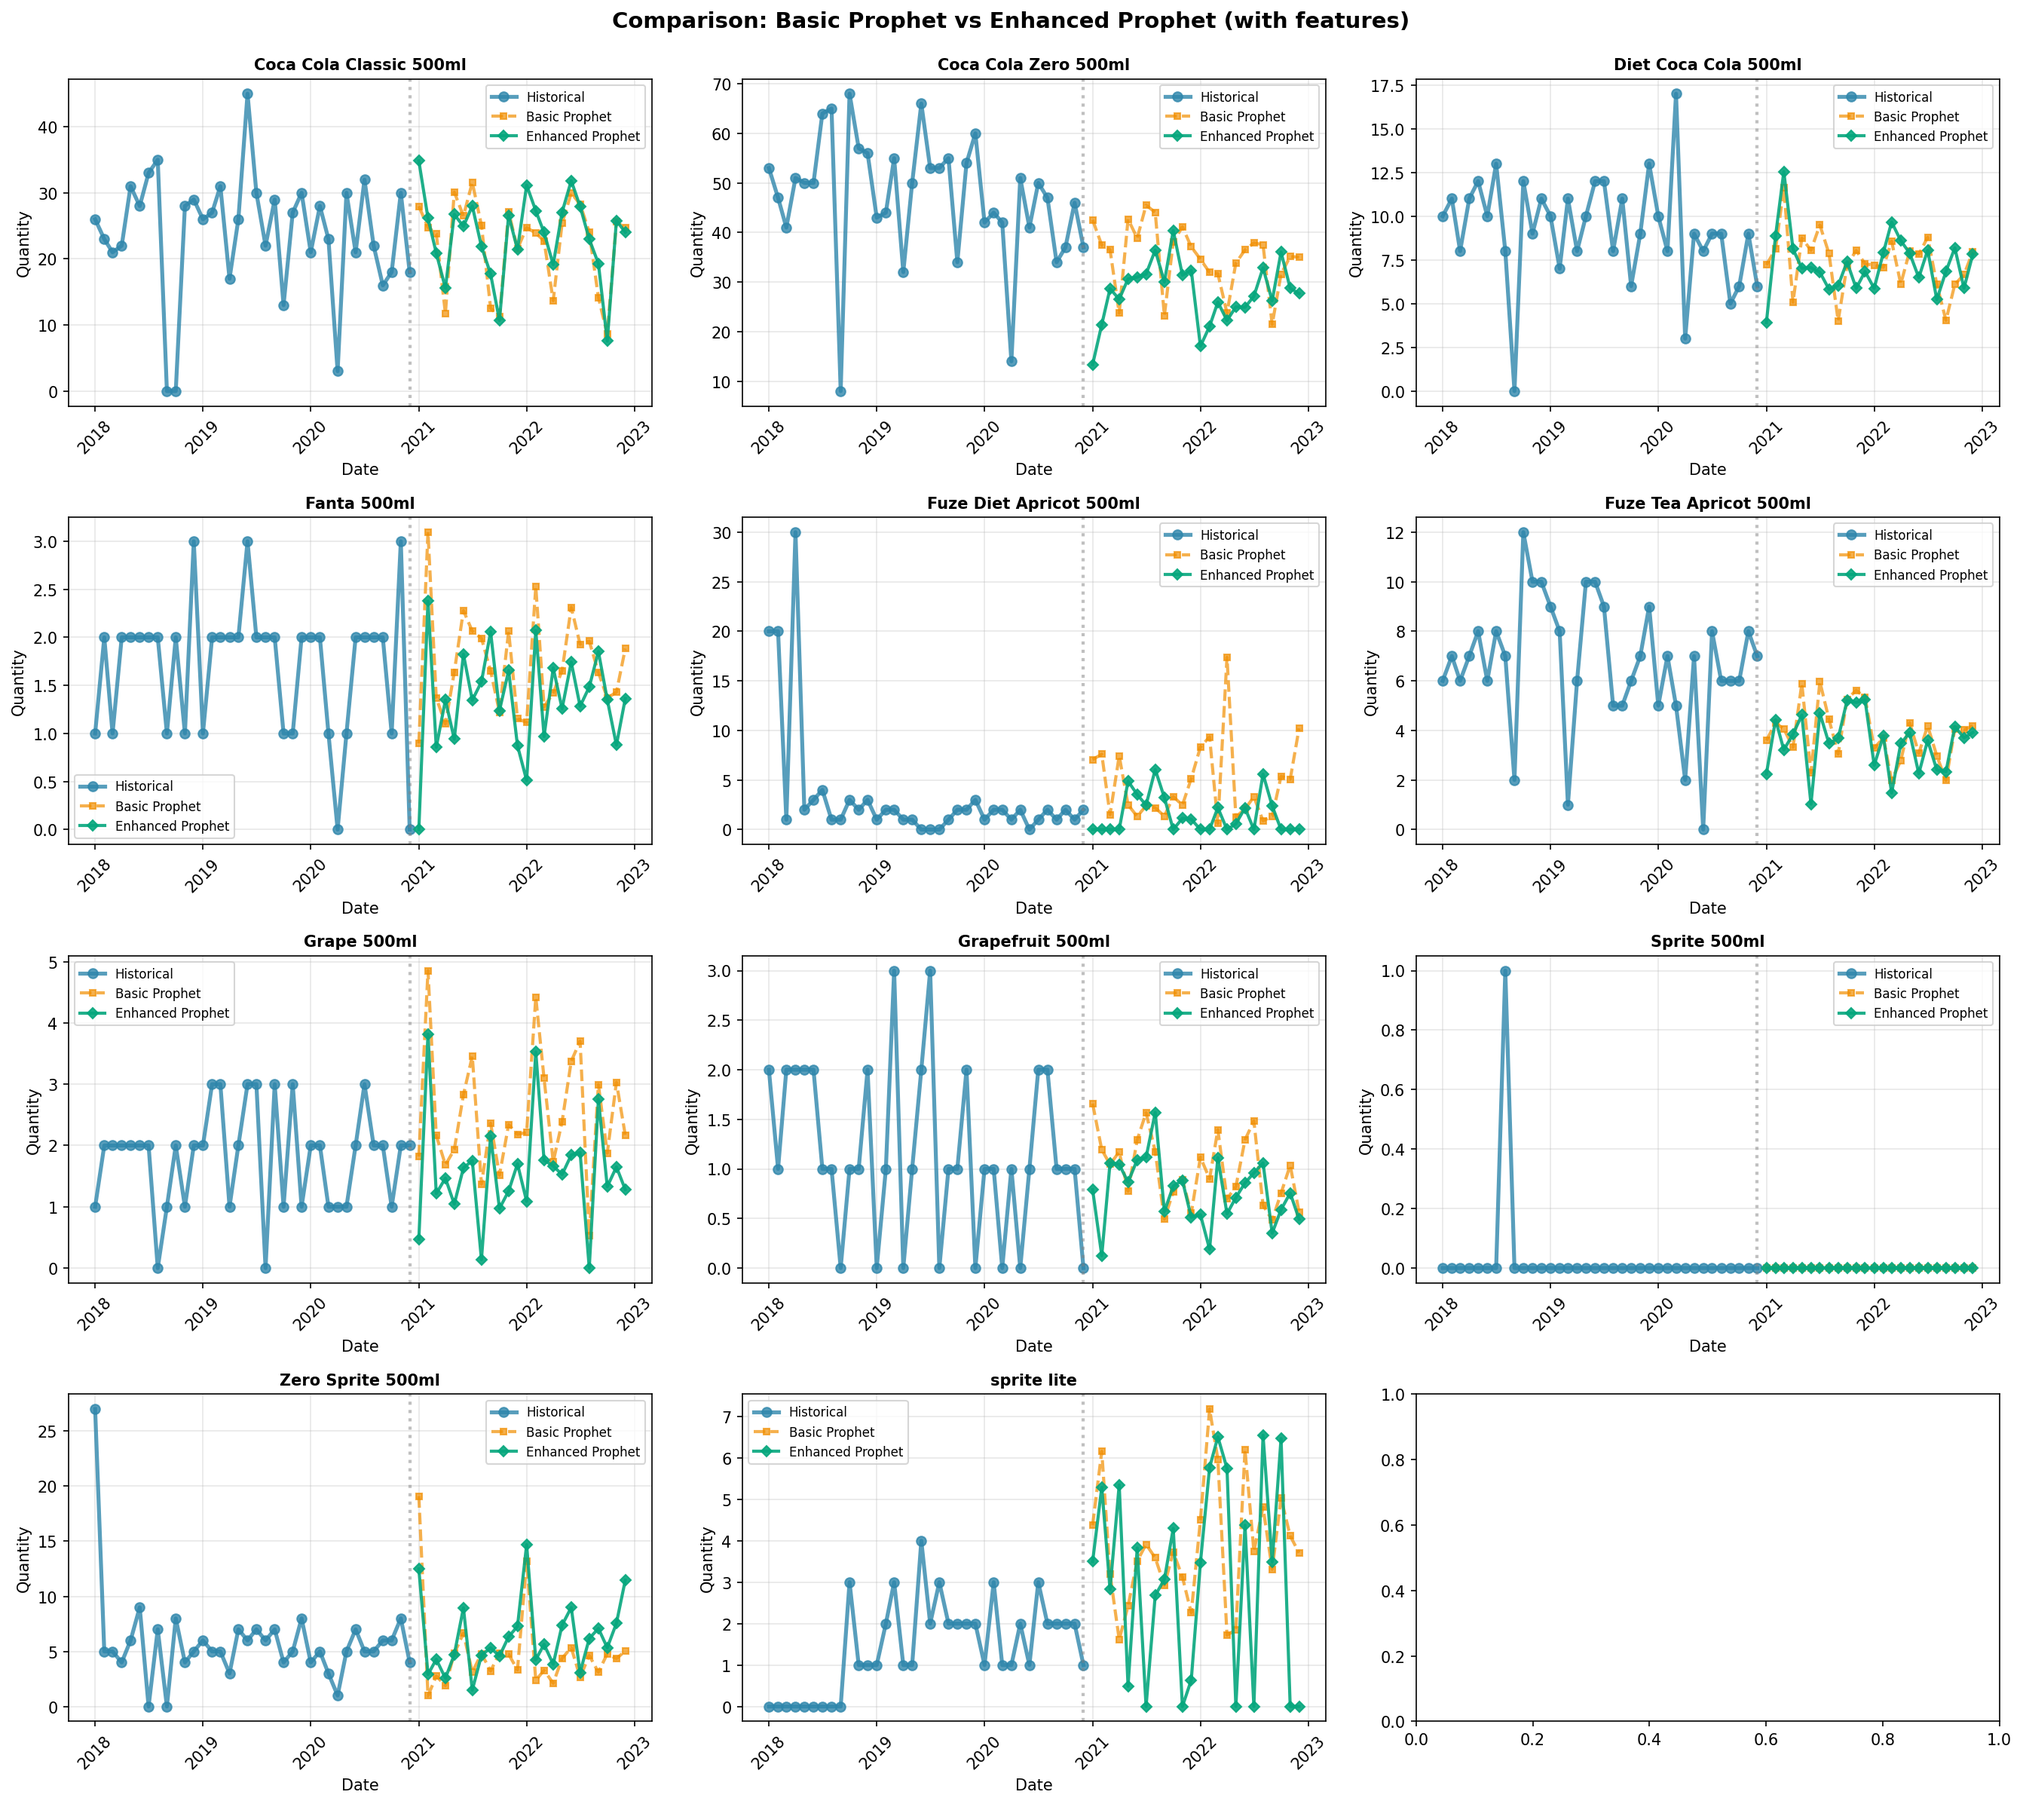
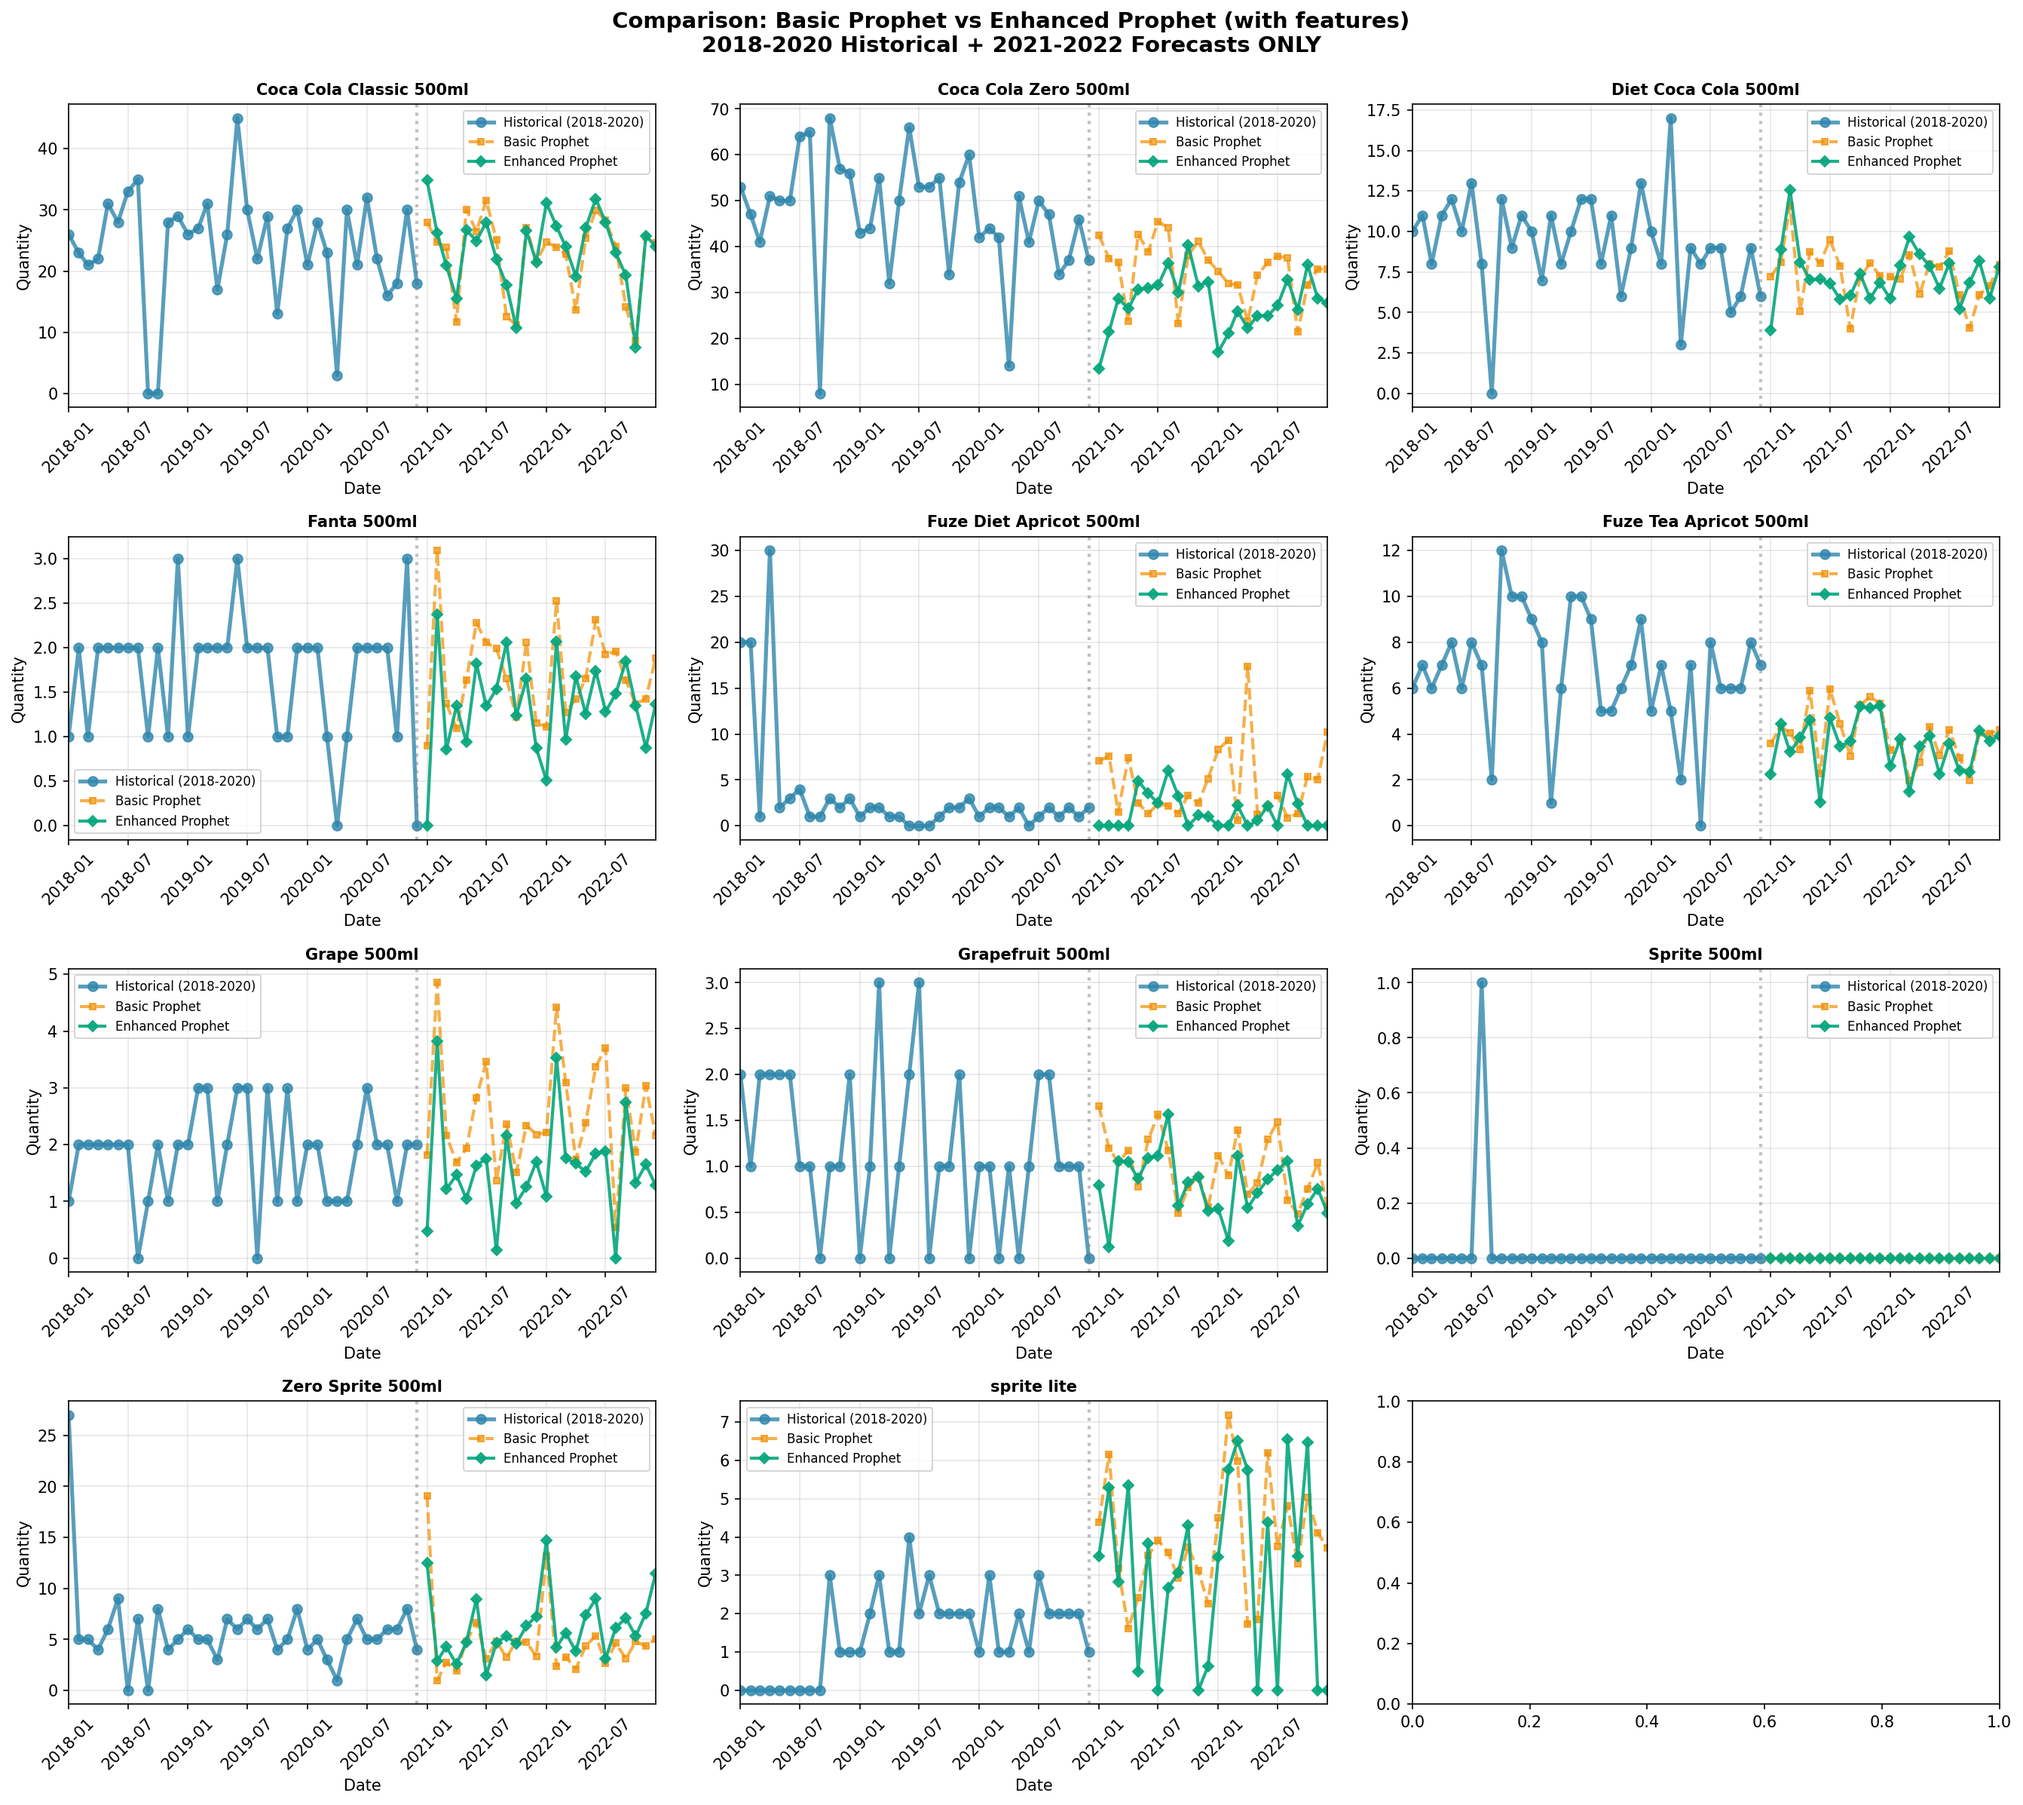
Fix x-axis in visualization - stop at Dec 2022 (no 2023)
ISSUE REPORTED BY USER:
The prophet_basic_vs_enhanced.png showed 2023 on x-axis even though
forecasts only cover 2021-2022.

ROOT CAUSE:
Matplotlib automatically extends x-axis beyond data range for visual
padding. Since last data point was Dec 2022, it extended into 2023.

FIX:
Added explicit x-axis limit in visualize_comparison():
  ax.set_xlim(hist.index.min(), forecast_dates.max())

This ensures x-axis ends exactly at Dec 2022.

VERIFICATION:
✓ CSV files contain only 2021-2022 (264 rows = 11 beverages × 24 months)
✓ Visualization now stops at Dec 2022
✓ No matplotlib auto-extension beyond data

Visualization now correctly shows:
- Historical: 2018-2020 (36 months)
- Forecasts: 2021-2022 (24 months)
- X-axis: Jan 2018 to Dec 2022 (exactly 5 years)
- NO 2023

🤖 Generated with [Claude Code](https://claude.com/claude-code)

diff --git a/prophet_enhanced_forecasting.py b/prophet_enhanced_forecasting.py
@@ -388,6 +388,9 @@ class EnhancedProphetForecaster:
             last_hist_date = hist.index.max()
             ax.axvline(x=last_hist_date, color='gray', linestyle=':', alpha=0.5, linewidth=2)
 
+            # Set x-axis limits to stop at Dec 2022 (no extension to 2023)
+            ax.set_xlim(hist.index.min(), forecast_dates.max())
+
             ax.set_title(beverage, fontsize=10, fontweight='bold')
             ax.set_xlabel('Date')
             ax.set_ylabel('Quantity')
